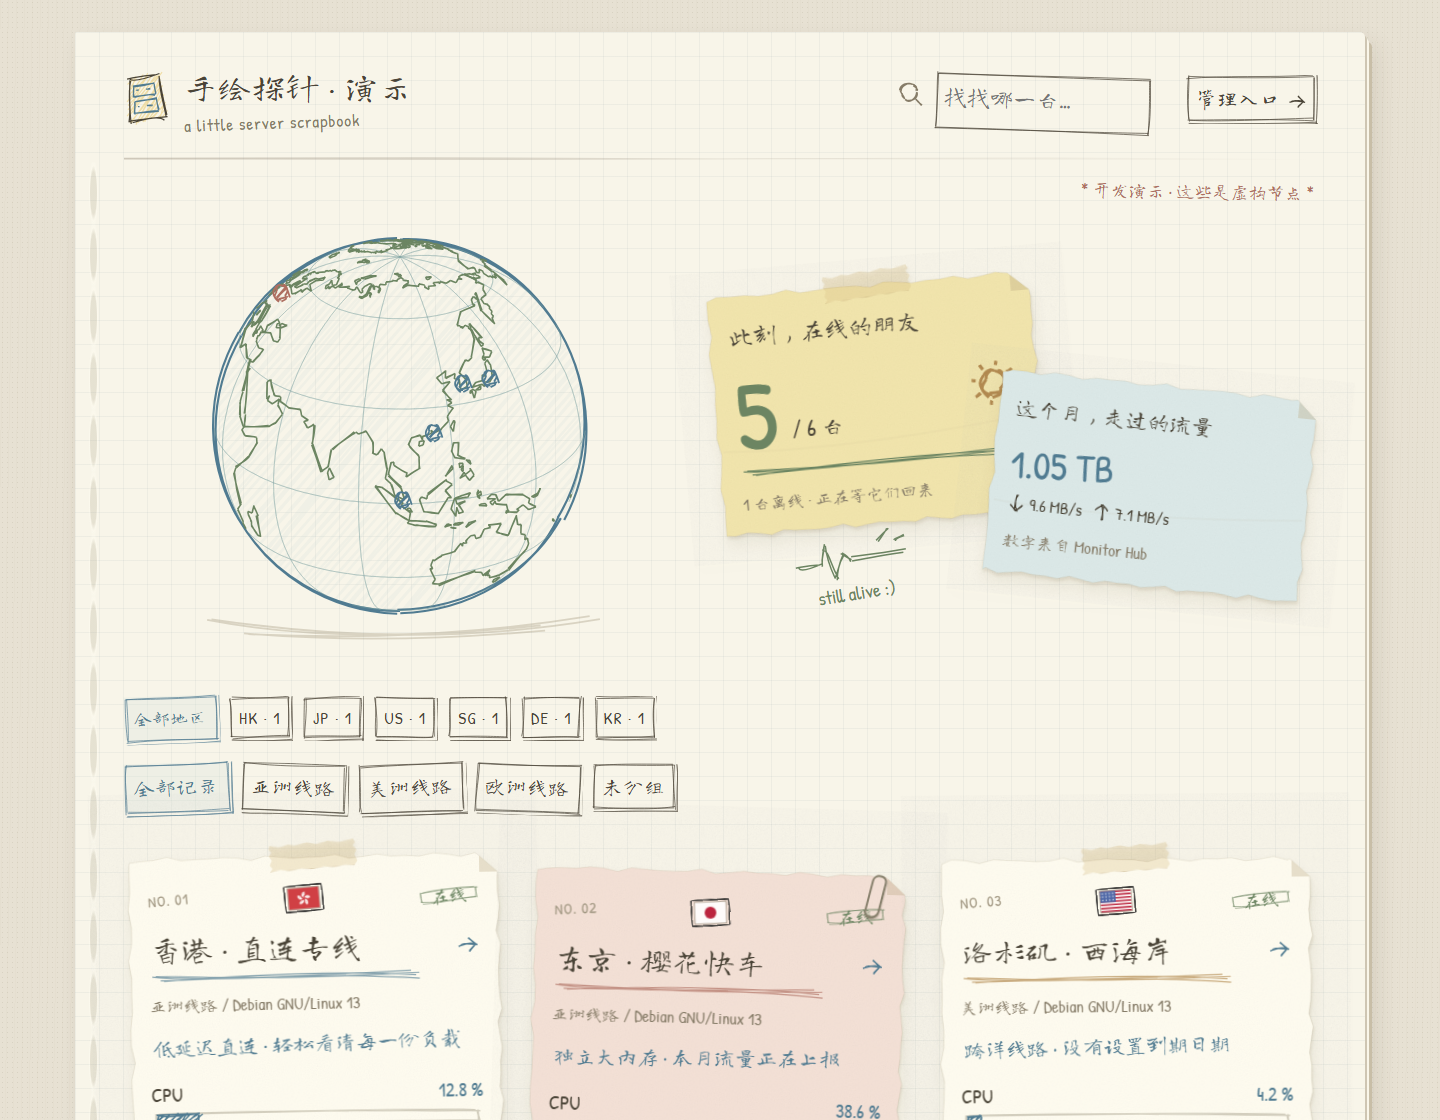
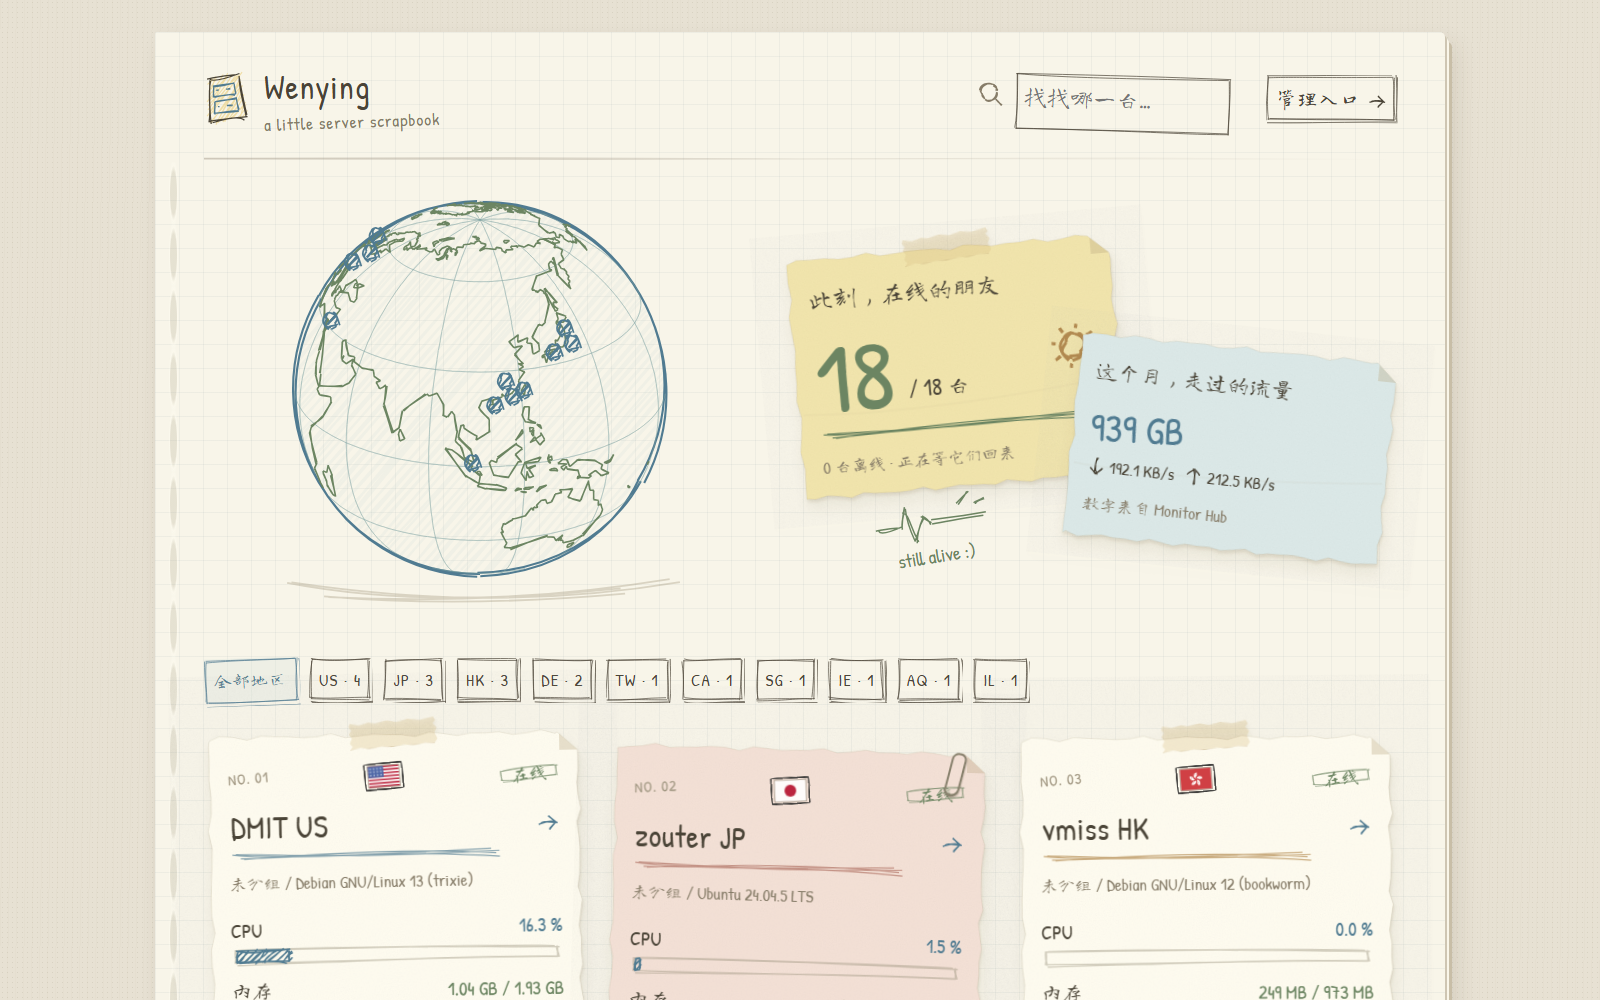
Update README preview from live Wenying site

diff --git a/README.md b/README.md
@@ -4,7 +4,7 @@
 
 ![主题预览](preview.png)
 
-> 预览图中的节点和指标为虚构示例。
+> 预览图来自真实站点 [Wenying](https://tz.or2.si/)，尺寸为 1600 × 1000（16:10）。节点状态与指标以实时页面为准。
 
 ## 功能
 
